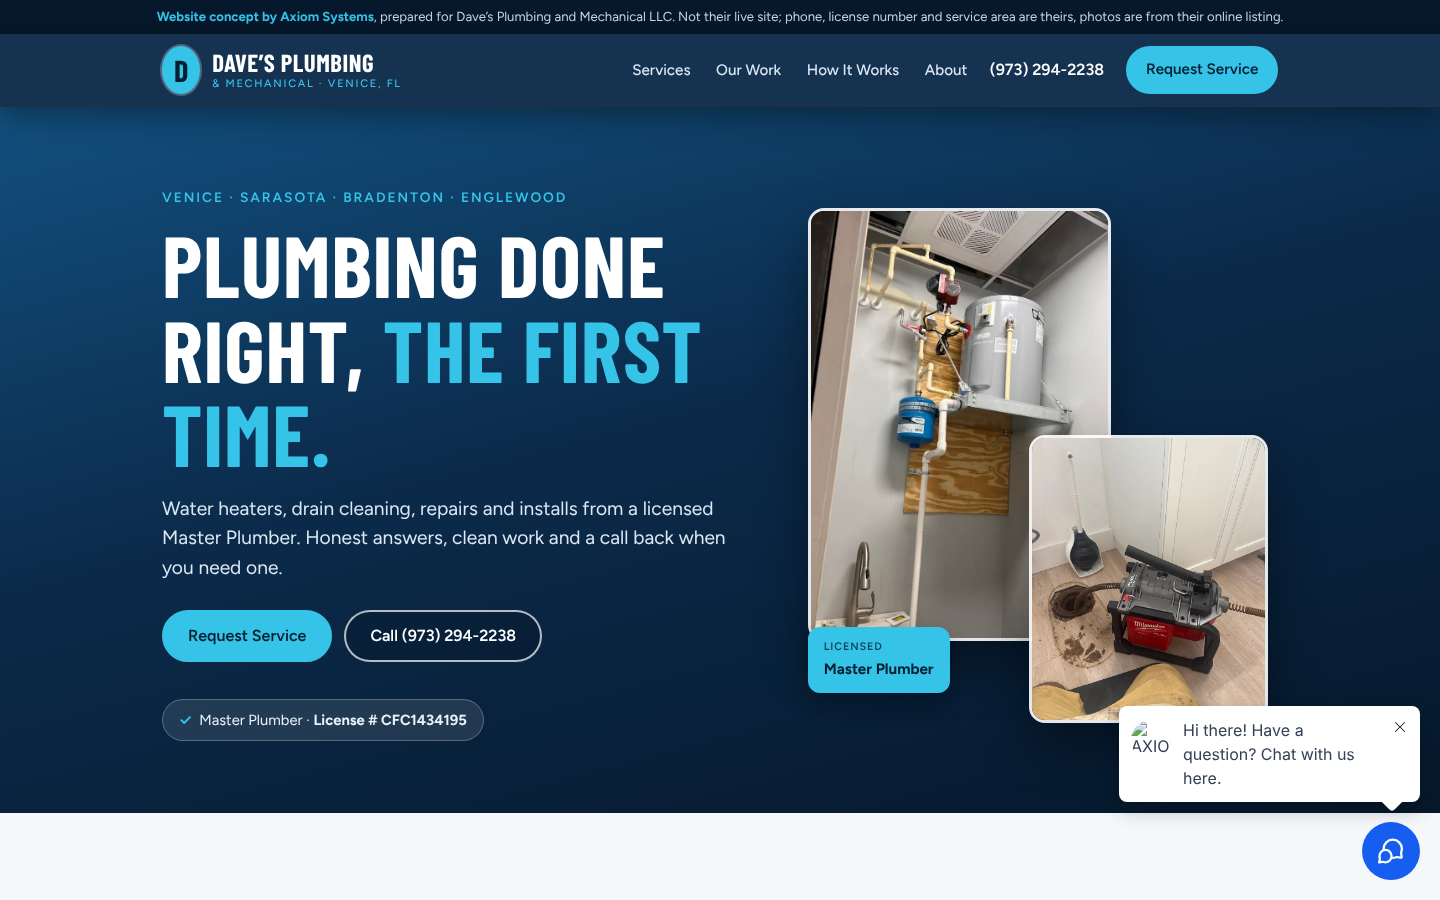
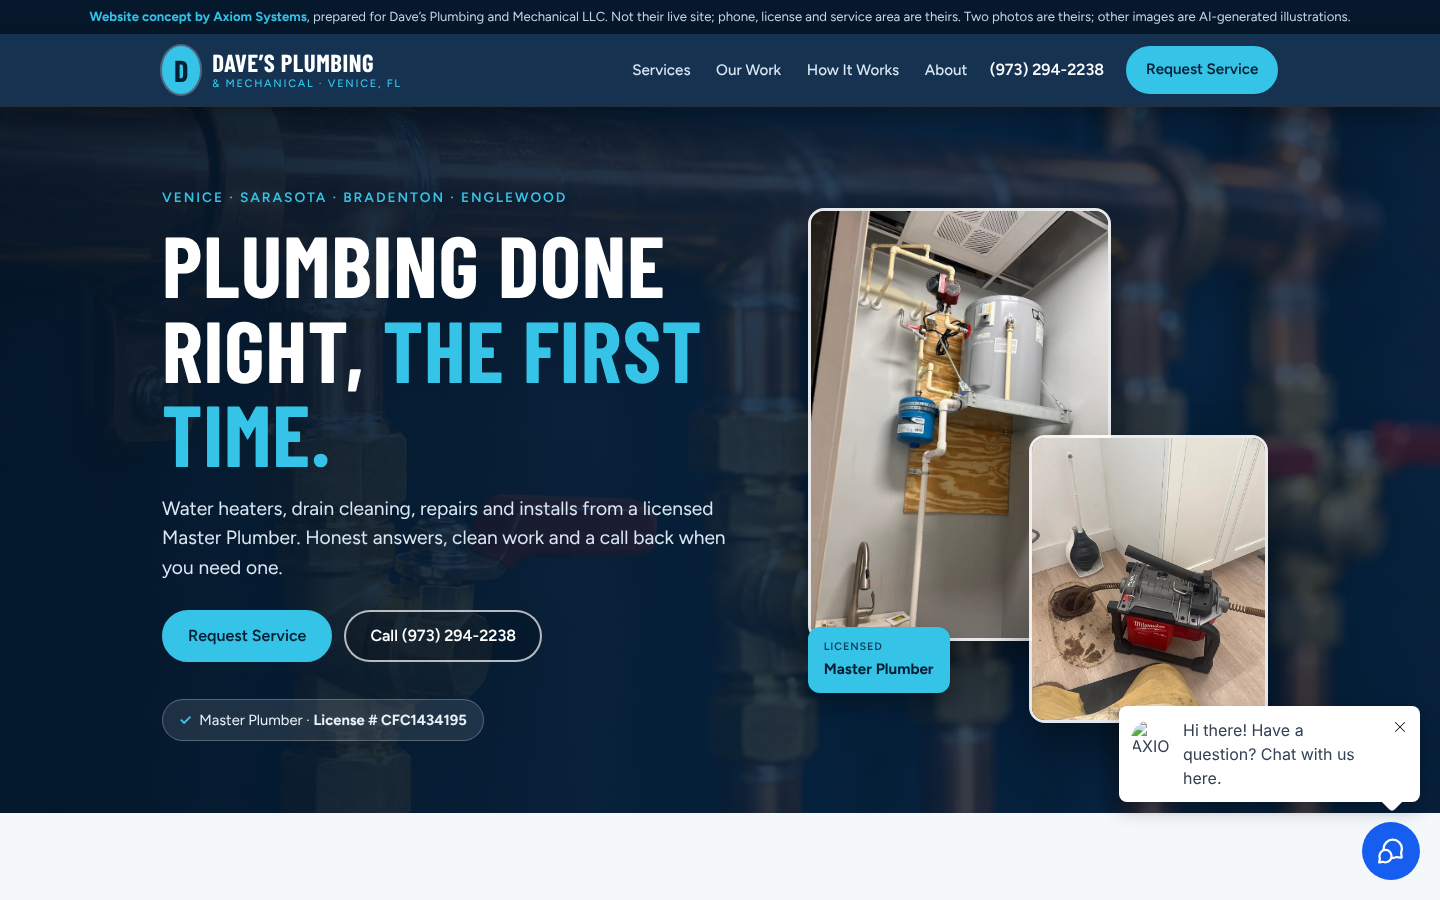
Dave's Plumbing demo v2: copper hero photo and an illustrative gallery
Six Higgsfield-generated generic plumbing images (hero background plus a gallery
tagged 'Illustrative image'), disclosed in the ribbon, gallery note and footer.
Rebuilt onto a fresh page (2164, noindex) because rebuilding a published page
leaves a stale stylesheet; old pages trashed. Live check: 60 passed, 0 failed.

Claude-Session: https://claude.ai/code/session_01PgQPjpZz5sj4PmE7sxfBfh

diff --git a/axiom-backups/2026-11-20-daves-plumbing/native/gen.py b/axiom-backups/2026-11-20-daves-plumbing/native/gen.py
@@ -1,4 +1,4 @@
-"""Elementor V4 build payloads for the Dave's Plumbing demo (axiomsystems.systems page 2146).
+"""Elementor V4 build payloads for the Dave's Plumbing demo (axiomsystems.systems page 2164).
 Native port of the approved local draft (../site/index.html): same copy, palette, photos and sections.
 The page snippet (../snippet/main.php) adds the demo estimate form (#dp-form), service preselect, heading accents,
 the header colour, the sticky fix and the phone bar logic.
@@ -63,7 +63,7 @@ def HEAD(cid, eb, title, lede=None, dark=False, right=None):
 # ---------- ribbon + header ----------
 def ribbon():
     T = f"font-family: {BODY}; font-size: 0.82rem; line-height: 1.35; color: #c4d7ea; text-align: center;"
-    return FX("rb", [P("rb-t", "<strong>Website concept by Axiom Systems</strong>, prepared for Dave’s Plumbing and Mechanical LLC. Not their live site; phone, license number and service area are theirs, photos are from their online listing.", T + " @media(--mobile) { display: none; }"),
+    return FX("rb", [P("rb-t", "<strong>Website concept by Axiom Systems</strong>, prepared for Dave’s Plumbing and Mechanical LLC. Not their live site; phone, license and service area are theirs. Two photos are theirs; other images are AI-generated illustrations.", T + " @media(--mobile) { display: none; }"),
                      P("rb-m", "<strong>Website concept by Axiom Systems.</strong> Not Dave’s Plumbing’s live site.", T + " display: none; font-size: 0.76rem; @media(--mobile) { display: block; }")],
               f"width: 100%; justify-content: center; background-color: {DEEP}; padding-block-start: 8px; padding-block-end: 8px; padding-inline-start: 16px; padding-inline-end: 16px;", _cssid="dp-ribbon")
 
@@ -106,7 +106,8 @@ def hero():
               f"position: absolute; inset-inline-start: 0px; inset-block-end: 6%; z-index: 3; width: auto; flex-direction: column; gap: 2px; background-color: {LEAF}; border-radius: 12px; padding-block-start: 12px; padding-block-end: 12px; padding-inline-start: 16px; padding-inline-end: 16px; box-shadow: 0px 10px 24px 0px rgba(0,0,0,0.3);")
     collage = DV("hr-col", [c1, c2, badge], "position: relative; width: 100%; max-width: 460px; aspect-ratio: 1 / 1.12; margin-inline-start: auto; margin-inline-end: auto; @media(--tablet) { max-width: 420px; }")
     g = GR("hr-g", [copy, collage], WRAP + " position: relative; z-index: 2; grid-template-columns: minmax(0,1.1fr) minmax(0,0.9fr); grid-template-rows: auto; gap: 3rem; align-items: center; padding-block-start: 5.25rem; padding-block-end: 4.5rem; @media(--tablet) { grid-template-columns: minmax(0,1fr); grid-template-rows: auto auto; gap: 2.25rem; padding-block-start: 3.25rem; padding-block-end: 3rem; }")
-    n = FX("hr", [g], f"position: relative; width: 100%; overflow: hidden; flex-direction: column; background-color: {FOREST}; background-image: linear-gradient(165deg, #12507f 0%, #0b2a4a 45%, #06182b 100%);", tag="section")
+    shade = DV("hr-sh", [], "position: absolute; inset: 0px; z-index: 1; background-image: linear-gradient(100deg, rgba(4,22,40,0.94) 0%, rgba(6,32,58,0.86) 55%, rgba(6,32,58,0.7) 100%); @media(--tablet) { background-image: linear-gradient(180deg, rgba(4,22,40,0.9) 0%, rgba(4,22,40,0.88) 100%); }")
+    n = FX("hr", [IMG("hr-bg", "hero-copper-manifold", FILL + " object-position: 50% 50%; z-index: 0;"), shade, g], f"position: relative; width: 100%; overflow: hidden; flex-direction: column; background-color: {FOREST};", tag="section")
     n.cfg["_cssid"] = "hero"; return n
 
 # ---------- services (icon cards; the icons are drawn by the page snippet on #ic-1..6) ----------
@@ -129,6 +130,22 @@ def services():
     also = P("sv-also", "<strong>Also ask about:</strong> new construction rough-ins · remodels · water pressure problems · gas and mechanical work.", f"font-family: {BODY}; font-size: 1rem; color: {MUTED}; margin-block-start: 1.75rem;")
     return SEC("sv", "services", [HEAD("sv-hd", "What we do", "Plumbing and mechanical, <em>handled</em>", "From a clogged drain to a full water heater install, one licensed team across Sarasota and Manatee counties."), g, also])
 
+# ---------- showcase (generated, illustrative images) ----------
+SHOW = [("gen-bathroom-tub", "Bathroom fixtures", "50% 50%", "grid-column: 1; grid-row: 1 / span 2;"), ("gen-tankless-heater", "Tankless water heaters", "50% 30%", "grid-column: 2; grid-row: 1;"),
+        ("gen-under-sink", "Under-sink repairs", "50% 50%", "grid-column: 3; grid-row: 1;"), ("gen-pipe-wrench-hands", "Copper &amp; brass fittings", "50% 50%", "grid-column: 2; grid-row: 2;"),
+        ("gen-florida-home-hose-bib", "Outdoor &amp; irrigation lines", "50% 50%", "grid-column: 3; grid-row: 2;")]
+def showcase():
+    tiles = []
+    for i, (slug, cap, pos, place) in enumerate(SHOW):
+        tablet = " @media(--tablet) { grid-column: auto; grid-row: auto; aspect-ratio: 4 / 3; }" if i else " @media(--tablet) { grid-column: span 2; grid-row: auto; aspect-ratio: 16 / 10; }"
+        tiles.append(DV(f"sh{i}", [IMG(f"sh{i}-i", slug, FILL + f" object-position: {pos}; transition: transform 0.4s; &:hover {{ transform: scale(1.04); }}", size="large"),
+                                   P(f"sh{i}-t", "Illustrative image", f"position: absolute; inset-block-start: 10px; inset-inline-start: 10px; font-family: {BODY}; font-weight: 600; font-size: 0.7rem; letter-spacing: 0.06em; text-transform: uppercase; color: #ffffff; background-color: rgba(4,22,40,0.7); border-radius: 999px; padding-block-start: 5px; padding-block-end: 5px; padding-inline-start: 10px; padding-inline-end: 10px;", tag="span"),
+                                   P(f"sh{i}-c", cap, f"position: absolute; inset-inline-start: 0px; inset-inline-end: 0px; inset-block-end: 0px; padding-block-start: 2rem; padding-block-end: 0.8rem; padding-inline-start: 0.95rem; padding-inline-end: 0.95rem; font-family: {BODY}; font-weight: 600; font-size: 0.95rem; line-height: 1.25; color: {ONDARK}; background-image: linear-gradient(180deg, rgba(4,22,40,0) 0%, rgba(4,22,40,0.85) 100%);")],
+                        f"position: relative; overflow: hidden; border-radius: 14px; min-height: 240px; background-color: #e1eaf2; {place}{tablet}"))
+    g = GR("sh-g", tiles, "grid-template-columns: repeat(3, minmax(0,1fr)); grid-template-rows: repeat(2, minmax(260px, auto)); gap: 1rem; @media(--tablet) { grid-template-columns: repeat(2, minmax(0,1fr)); grid-template-rows: auto; } @media(--mobile) { grid-template-columns: minmax(0,1fr); gap: 0.7rem; }")
+    note = P("sh-note", "Illustrative images of the kinds of work we handle; they are not photos of specific jobs. See Recent work below for jobs from the field.", f"font-family: {BODY}; font-size: 0.92rem; color: {MUTED}; margin-block-start: 1rem;")
+    return SEC("sh", "showcase", [HEAD("sh-hd", "Plumbing, start to finish", "From the water heater <em>to the faucet</em>", "The fixtures, fittings and systems we install, repair and replace every day."), g, note], f"background-color: {PAPER};")
+
 # ---------- recent work (two photos) ----------
 WORK = [("water-heater-install", "Water heater install", "Shelf-mounted tank with recirculation pump and expansion tank"),
         ("drain-machine", "Drain cleaning", "Clearing a stubborn floor drain with a power drain machine")]
@@ -137,7 +154,7 @@ def work():
                           FX(f"wk{i}-cp", [P(f"wk{i}-t", t, f"font-family: {BODY}; font-weight: 600; font-size: 1.05rem; color: {FOREST};"), P(f"wk{i}-s", s, f"font-family: {BODY}; font-size: 0.95rem; color: {MUTED};")], "flex-direction: column; gap: 2px; padding: 1rem 1.25rem;")],
                f"flex-direction: column; background-color: {PAPER}; border-radius: 14px; overflow: hidden; {SHADOW} min-width: 0px;") for i, (slug, t, s) in enumerate(WORK)]
     g = GR("wk-g", figs, "grid-template-columns: repeat(2, minmax(0,1fr)); grid-template-rows: auto; gap: 1.4rem; @media(--mobile) { grid-template-columns: minmax(0,1fr); grid-template-rows: auto auto; }")
-    return SEC("wk", "work", [HEAD("wk-hd", "Recent work", "Clean installs, <em>clear explanations</em>", right=BTN("wk-b", "Start your project", EST)), g], f"background-color: {PAPER};")
+    return SEC("wk", "work", [HEAD("wk-hd", "Recent work", "Clean installs, <em>clear explanations</em>", right=BTN("wk-b", "Start your project", EST)), g])
 
 # ---------- how it works ----------
 STEPS = [("Call or request", "Tell us what is going on and we will set up a time that works."),
@@ -148,17 +165,17 @@ def process():
     cards = [FX(f"pr{i}", [P(f"pr{i}-n", f"0{i + 1}", f"font-family: {DISP}; font-weight: 700; font-size: 2.5rem; line-height: 1; color: {FOREST2};"),
                            P(f"pr{i}-t", t, f"font-family: {DISP}; font-weight: 700; font-size: 1.5rem; line-height: 1.1; color: {FOREST};"),
                            P(f"pr{i}-d", d, f"font-family: {BODY}; font-size: 0.98rem; line-height: 1.55; color: {MUTED};")],
-                f"flex-direction: column; gap: 0.5rem; padding: 1.5rem 1.4rem; background-color: {PAPER}; border-radius: 14px; border-width: 5px 0px 0px 0px; border-style: solid; border-color: {LEAF}; min-width: 0px;")
+                f"flex-direction: column; gap: 0.5rem; padding: 1.5rem 1.4rem; background-color: {CREAM}; border-radius: 14px; border-width: 5px 0px 0px 0px; border-style: solid; border-color: {LEAF}; min-width: 0px;")
              for i, (t, d) in enumerate(STEPS)]
     g = GR("pr-g", cards, "grid-template-columns: repeat(4, minmax(0,1fr)); grid-template-rows: auto; gap: 1.1rem; @media(--tablet) { grid-template-columns: repeat(2, minmax(0,1fr)); grid-template-rows: auto auto; } @media(--mobile) { grid-template-columns: minmax(0,1fr); grid-template-rows: repeat(4, auto); }")
-    return SEC("pr", "process", [HEAD("pr-hd", "How it works", "Simple from <em>call to cleanup</em>"), g])
+    return SEC("pr", "process", [HEAD("pr-hd", "How it works", "Simple from <em>call to cleanup</em>"), g], f"background-color: {PAPER};")
 
 # ---------- about ----------
 CREDS = [("Master Plumber", "License # CFC1434195"), ("Venice, FL", "Locally based"), ("Residential &amp; Commercial", "Plumbing and mechanical"), ("Call or Text", PHONE)]
 def about():
     creds = GR("ab-cr", [FX(f"ab-c{i}", [P(f"ab-c{i}-b", b, f"font-family: {DISP}; font-weight: 700; font-size: 1.45rem; line-height: 1.1; color: {FOREST};"),
                                          P(f"ab-c{i}-s", s, f"font-family: {BODY}; font-size: 0.9rem; color: {MUTED};")],
-                            f"flex-direction: column; gap: 0.2rem; padding-block-start: 1rem; padding-block-end: 1rem; padding-inline-start: 1.1rem; padding-inline-end: 1.1rem; background-color: {CREAM}; border-width: 1px; border-style: solid; border-color: {LINE}; border-radius: 12px; min-width: 0px;")
+                            f"flex-direction: column; gap: 0.2rem; padding-block-start: 1rem; padding-block-end: 1rem; padding-inline-start: 1.1rem; padding-inline-end: 1.1rem; background-color: {PAPER}; border-width: 1px; border-style: solid; border-color: {LINE}; border-radius: 12px; min-width: 0px;")
                          for i, (b, s) in enumerate(CREDS)],
                  "grid-template-columns: repeat(4, minmax(0,1fr)); grid-template-rows: auto; gap: 0.85rem; margin-block-start: 1.6rem; @media(--tablet) { grid-template-columns: repeat(2, minmax(0,1fr)); grid-template-rows: auto auto; } @media(--mobile) { grid-template-columns: minmax(0,1fr); grid-template-rows: repeat(4, auto); }")
     copy = FX("ab-copy", [P("ab-eb", "About us", EB), H("ab-h", "A licensed local plumber <em>you can call</em>", "h2", H2),
@@ -166,7 +183,7 @@ def about():
                           creds,
                           P("ab-area", "<strong>Service area:</strong> Venice · Sarasota · Bradenton · Englewood · North Port · Osprey · Nokomis · surrounding areas", f"font-family: {BODY}; font-size: 0.95rem; line-height: 1.6; color: {MUTED}; margin-block-start: 1.5rem;")],
               "flex-direction: column; gap: 0.75rem; min-width: 0px;")
-    return SEC("ab", "about", [copy], f"background-color: {PAPER};")
+    return SEC("ab", "about", [copy])
 
 # ---------- estimate (form mount #dp-form, rendered by the snippet) ----------
 def estimate():
@@ -194,7 +211,7 @@ def footer():
     row = FX("fo-r", [P("fo-a", "<strong>Dave’s Plumbing and Mechanical LLC</strong> · Master Plumber License # CFC1434195 · Venice, FL", T),
                       FX("fo-l", [P("fo-tel", PHONE, LK, link=L(TEL))], "width: auto; gap: 1.2rem; flex-wrap: wrap;")],
              "flex-wrap: wrap; gap: 1.25rem; justify-content: space-between; align-items: center;")
-    fine = P("fo-fine", "<strong>Demo notice.</strong> This page is a website concept prepared by Axiom Systems for Dave’s Plumbing and Mechanical LLC and is not their official site. The phone number, license number and service area were supplied by the business; services and descriptions are illustrative, and the photographs are from their online listing. The estimate form is a demonstration and sends nothing.",
+    fine = P("fo-fine", "<strong>Demo notice.</strong> This page is a website concept prepared by Axiom Systems for Dave’s Plumbing and Mechanical LLC and is not their official site. The phone number, license number and service area were supplied by the business; services and descriptions are illustrative. The two photos under Recent work are from their online listing; the other images are AI-generated illustrations and do not show specific jobs. The estimate form is a demonstration and sends nothing.",
              T + " font-size: 0.8rem; max-width: 110ch; margin-block-start: 1.5rem; padding-block-start: 1.25rem; border-width: 1px 0px 0px 0px; border-style: solid; border-color: rgba(255,255,255,0.14);")
     return FX("fo", [FX("fo-w", [row, fine], WRAP + " flex-direction: column;")],
               f"width: 100%; background-color: {DEEP}; padding-block-start: 2.75rem; padding-block-end: 2.5rem; flex-direction: column; @media(--tablet) {{ padding-block-end: 6.5rem; }}", tag="footer")
@@ -205,7 +222,7 @@ def mobilebar():
                      BTN("mb-q", "Request Service", EST, css="flex: 1.5 1 0px; min-height: 50px; padding-inline-start: 0.6rem; padding-inline-end: 0.6rem; font-size: 0.95rem;")],
               f"display: none; position: fixed; width: auto; inset-inline-start: 0px; inset-inline-end: 84px; inset-block-end: 0px; z-index: 100000000; flex-direction: row; gap: 8px; padding: 8px; background-color: rgba(6,24,43,0.96); backdrop-filter: blur(10px); border-radius: 0px 14px 0px 0px; @media(--tablet) {{ display: flex; }}", tag="nav", _cssid="dp-bar")
 
-SECTIONS = [ribbon, header, hero, services, work, process, about, estimate, footer, mobilebar]
+SECTIONS = [ribbon, header, hero, services, showcase, work, process, about, estimate, footer, mobilebar]
 if __name__ == "__main__":
     kids = [f() for f in SECTIONS]
     root = N("e-flexbox", "dp", None, f"padding: 0px; width: 100%; max-width: 100%; flex-direction: column; gap: 0px; background-color: {CREAM}; color: {INK}; font-family: {BODY};", kids)

diff --git a/axiom-backups/2026-11-20-daves-plumbing/snippet/main.php b/axiom-backups/2026-11-20-daves-plumbing/snippet/main.php
@@ -1,7 +1,7 @@
 <?php
 /**
  * Axiom Demo – Dave's Plumbing Page Enhancements
- * Page 2146 only: is_page(2146), its WordPress/Elementor previews, and signed Elementor preview links for post 2146.
+ * Page 2164 only: is_page(2164), its WordPress/Elementor previews, and signed Elementor preview links for post 2164.
  * It outputs nothing on any other page.
  * The page is native Elementor V4; this adds:
  *  - the demo estimate form in #dp-form: name, phone, service, ZIP, optional details. DEMO MODE: it runs entirely in the
@@ -20,7 +20,7 @@ if ( ! defined( 'ABSPATH' ) ) {
 
 // Closures only (no named functions/constants), so the file can be re-validated while the live copy is loaded.
 $axiom_ma_applies = static function () {
-	$pid = 2146;
+	$pid = 2164;
 	if ( is_admin() || is_feed() || is_embed() || wp_doing_ajax() || ( defined( 'REST_REQUEST' ) && REST_REQUEST ) ) {
 		return false;
 	}
@@ -50,9 +50,9 @@ add_action(
 /* the site sets overflow-x:hidden on html/body, which turns body into a scroll container and breaks the sticky header */
 html:not(#dp-x),body:not(#dp-x){overflow-x:clip!important;overflow-y:visible!important}
 #hero h1 em,#estimate h2 em{font-style:normal;color:#35c3e8}
-#services h2 em,#work h2 em,#process h2 em,#about h2 em{font-style:normal;color:#0b6b8a}
+#services h2 em,#showcase h2 em,#work h2 em,#process h2 em,#about h2 em{font-style:normal;color:#0b6b8a}
 #hero b{color:#35c3e8;font-weight:700}
-#services strong,#process strong,#about strong{color:#12202e}
+#services strong,#showcase strong,#process strong,#about strong{color:#12202e}
 #estimate strong,footer strong{color:#ffffff}
 #top a[href^="tel:"]{white-space:nowrap}
 #dp-ribbon strong{color:#35c3e8}

diff --git a/axiom-backups/2026-11-20-daves-plumbing/native/build.py b/axiom-backups/2026-11-20-daves-plumbing/native/build.py
@@ -1,9 +1,9 @@
-"""Builds the Dave's Plumbing page (default 2146, override with DP_PID) from ALL.json in one replace call.
+"""Builds the Dave's Plumbing page (default 2164, override with DP_PID) from ALL.json in one replace call.
 One replace (not replace + appends) so Elementor regenerates the page's V4 CSS file (see the Comer's README)."""
 import json, sys, os, re
 sys.path.insert(0, os.path.dirname(os.path.abspath(__file__))); import axmcp as mcp
 os.chdir(os.path.dirname(os.path.abspath(__file__)))
-PID = int(os.environ.get("DP_PID", "2146"))
+PID = int(os.environ.get("DP_PID", "2164"))
 mcp.init()
 r = mcp.call("elementor-build-composition", {"post_id": PID, **json.load(open("ALL.json")), "parent_id": "document", "mode": "replace_children"})
 if "error" in r or not r.get("success"): print("FAILED", json.dumps(r)[:4000]); sys.exit(1)

diff --git a/axiom-backups/2026-11-20-daves-plumbing/native/set_slug.py b/axiom-backups/2026-11-20-daves-plumbing/native/set_slug.py
@@ -1,6 +1,6 @@
-# Sets page 2146's slug via the WordPress REST API (same auth as upload.py)
+# Sets page 2164's slug via the WordPress REST API (same auth as upload.py)
 import json, os, urllib.request
 H = {'Authorization': 'Basic ' + os.environ['AXIOM_ELEMENTOR_MCP_AUTH'], 'User-Agent': 'curl/8.5.0', 'Content-Type': 'application/json'}
-r = urllib.request.Request('https://axiomsystems.systems/wp-json/wp/v2/pages/2146', method='POST', headers=H,
+r = urllib.request.Request('https://axiomsystems.systems/wp-json/wp/v2/pages/2164', method='POST', headers=H,
                            data=json.dumps({'slug': 'daves-plumbing-demo'}).encode())
 p = json.load(urllib.request.urlopen(r)); print(p['id'], p['status'], p['slug'], p['link'], p['template'])

diff --git a/axiom-backups/2026-11-20-daves-plumbing/native/plink.py b/axiom-backups/2026-11-20-daves-plumbing/native/plink.py
@@ -1,4 +1,4 @@
-"""Prints a fresh signed Elementor preview URL for page 2146 (links expire after ~10 minutes)."""
+"""Prints a fresh signed Elementor preview URL for page 2164 (links expire after ~10 minutes)."""
 import os, sys
 sys.path.insert(0, os.path.dirname(os.path.abspath(__file__))); import axmcp as mcp
-mcp.init(); print(mcp.call("elementor-create-preview-link", {"post_id": int(os.environ.get("DP_PID", "2146"))})["url"])
+mcp.init(); print(mcp.call("elementor-create-preview-link", {"post_id": int(os.environ.get("DP_PID", "2164"))})["url"])

diff --git a/axiom-backups/2026-11-20-daves-plumbing/README.md b/axiom-backups/2026-11-20-daves-plumbing/README.md
@@ -1,12 +1,12 @@
 # Dave's Plumbing and Mechanical LLC — website demo (2026-11-20) — https://axiomsystems.systems/daves-plumbing-demo/
 
-**Published 2026-11-20 on the user's go-ahead** (to send as a demo). Page **2146** "Dave's Plumbing and Mechanical — Website Concept":
+**Published 2026-11-20 on the user's go-ahead** (to send as a demo). Page **2164** (v2; v1 was 2146, now trashed) "Dave's Plumbing and Mechanical — Website Concept":
 Elementor Canvas, title hidden, Yoast noindex + nofollow, slug `daves-plumbing-demo`, not linked from any menu.
-Rollback: set page 2146 to draft (and unpublish snippet 2134 if wanted).
+Rollback: set page 2164 to draft (and unpublish snippet 2134 if wanted).
 
 ## Live build (native Elementor V4, Miracle Painting pipeline)
 - **Media 2130-2131** (`daves-demo-*`), `native/upload.py`, ids in `native/media-ids.json`. Generator `python3 -I native/gen.py`, build `python3 -I native/build.py`.
-- **Snippet 2134** "Axiom Demo – Dave's Plumbing Page Enhancements" (`snippet/main.php`), read back identical, scoped to page 2146 only. Adds the demo
+- **Snippet 2134** "Axiom Demo – Dave's Plumbing Page Enhancements" (`snippet/main.php`), read back identical, scoped to page 2164 only. Adds the demo
   form (no `<form>`, no requests), service preselect (#q-1..6), the six service icons (drawn as CSS backgrounds on #ic-1..6), accents, header colour,
   sticky fix, phone bar.
 - **Stale-CSS gotcha hit again**: the first build (page 2132) was fine, but a rebuild of the same page left its V4 stylesheet stale (0/141 classes).
@@ -15,7 +15,18 @@ Rollback: set page 2146 to draft (and unpublish snippet 2134 if wanted).
 - Draft preview 57/60 (3 = noindex not yet set); **live, logged out: 60 passed, 0 failed** (`preview/verify-live-log.txt`; desktop, iPhone 13, Pixel 7).
   CSS file matches the page (142/142).
 
-## Local draft (what the live page was ported from)
+## v2 (same day): hero photo + illustrative gallery
+The user asked for more images. Not scraped from other plumbers' sites (copyright and passing off other people's work as Dave's).
+Openverse CC pool was weak (1024 px Flickr, third-party branding), so **6 images were generated with Higgsfield `gpt_image_2_6`** (high, 2k; ~2.75 credits each,
+`originals/generated/g0-g5.jpg`): copper manifold (hero background, with a navy overlay), bathroom tub, tankless heater, under-sink, gloved hands on a pipe wrench,
+Florida home with hose bib. No people's faces, no brand names or text. On the page: hero background + a "Plumbing, start to finish" gallery, each tile tagged
+**"Illustrative image"**, a note under it, and the ribbon/footer say the other images are AI-generated. The two real photos stay under "Recent work".
+Media 2158-2163. Page 2164 built fresh (stale-CSS gotcha); old pages 2132 and 2146 are in the trash.
+**Page cache:** the host caches the page HTML (Kinsta/Cloudflare, `s-maxage` 24 h). A snippet-only fix after publishing (italic accent in the new section's heading)
+reached the origin but the plain URL kept serving the older cached HTML; `?x=` URLs show the fix. Purge the site cache in the host dashboard to show it immediately
+(PHP execution via the MCP is denied, so it could not be purged from here).
+
+## Local draft (older than the live page: it has no hero photo or gallery)
 Deliverable: **`daves-plumbing-demo.html`** (one self-contained file, 0.8 MB, opens offline, no network requests). Source in `site/`;
 `python3 -I build.py` inlines it; `node check.js` runs desktop 1440 + iPhone 13 checks (all pass). Screenshots in `shots/`.
 Built from the Miracle Painting template (`../2026-11-20-miracle-painting/`), recoloured deep blue + aqua, same fonts.
@@ -37,7 +48,7 @@ Services and descriptions, "How it works" steps, the owner name (none used), no 
 Wording about emergency/same-day service is deliberately absent. Logo: a CSS "D" monogram.
 
 ## Environment changes this session (Cyrus allowlist)
-Added `upload.higgsfield.ai`, `d2ol7oe51mr4n9.cloudfront.net` (Higgsfield upscale test, not run) and `www.instagram.com` (reachable now but unusable). Remove if unwanted.
+Added `upload.higgsfield.ai`, `d2ol7oe51mr4n9.cloudfront.net` (Higgsfield upload/upscale test, not run), `d8j0ntlcm91z4.cloudfront.net` (Higgsfield result downloads) and `www.instagram.com` (reachable, but Instagram rate-limits automated clients). Remove if unwanted.
 
 ## Next
 Get full-size photos (esp. the owner and a wide job shot) and confirm services/service-area towns, then rebuild into a NEW draft page (see gotcha above) and swap the slug.
